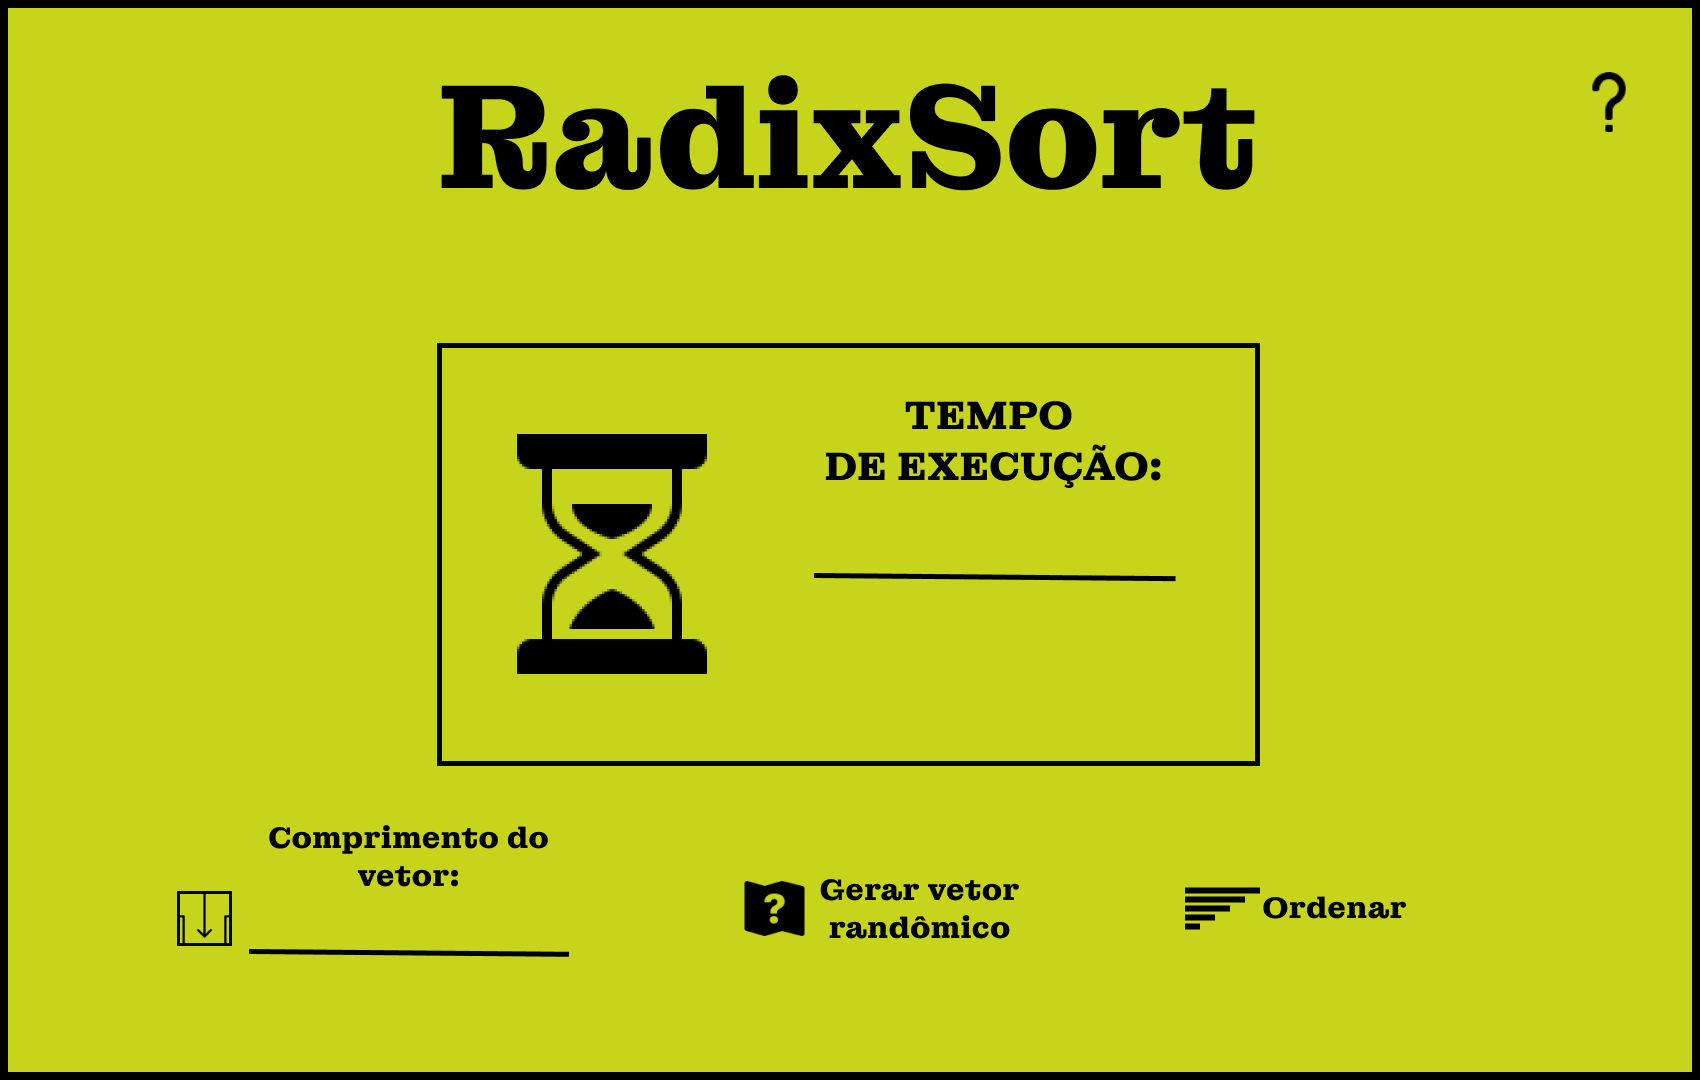
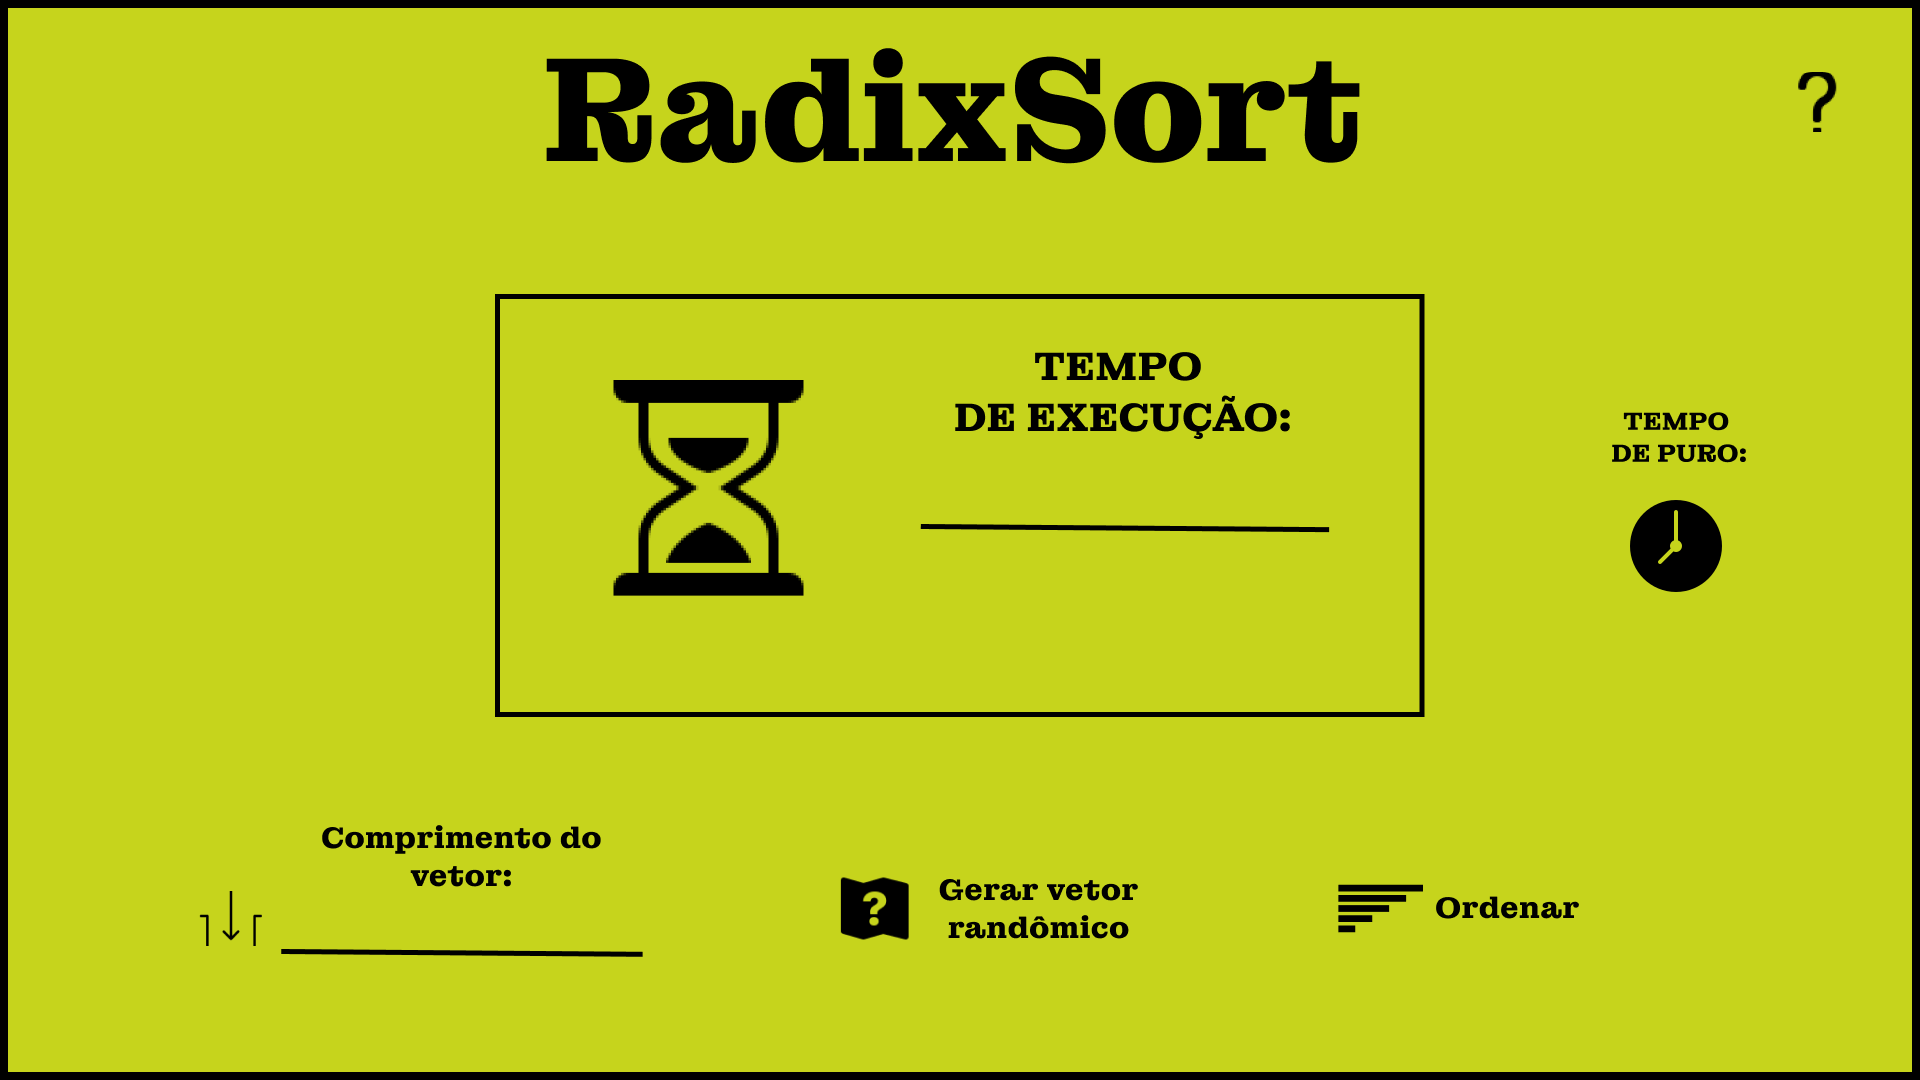
fxml modifications

diff --git a/view/style.css b/view/style.css
@@ -20,6 +20,14 @@
   -fx-border-width: 3px;
 }
 
+#btnTempoBruto{
+  -fx-background-color: rgba(174, 181, 101, 0.201);
+  -fx-background-radius: 15px;
+  -fx-border-color: black;
+  -fx-border-radius: 15px;
+  -fx-border-width: 1px;
+}
+
 
 #btnRandomico:hover{
   -fx-background-color: rgba(124, 130, 47, 0.223);
@@ -28,6 +36,10 @@
 #btnInserir{
   -fx-background-color: rgba(174, 181, 101, 0);
   -fx-background-radius: 1px;
+  -fx-background-radius: 15px;
+  -fx-border-color: black;
+  -fx-border-radius: 15px;
+  -fx-border-width: 1px;
 }
 #btnInserir:hover{
   -fx-background-color: rgba(116, 130, 24, 0.554);

diff --git a/controller/Controlador.java b/controller/Controlador.java
@@ -33,7 +33,15 @@ public class Controlador implements Initializable{
   private Label lblTempo;
   @FXML
   private ImageView imgExplicacao;
+  @FXML
+  private Button btnTempoBruto;
+  
   RadixSort rS;
+
+  @FXML
+  void OnClickTBruto(ActionEvent event) {
+
+  }
   
   @FXML
   void OnClickBtnInserir(ActionEvent event) {
